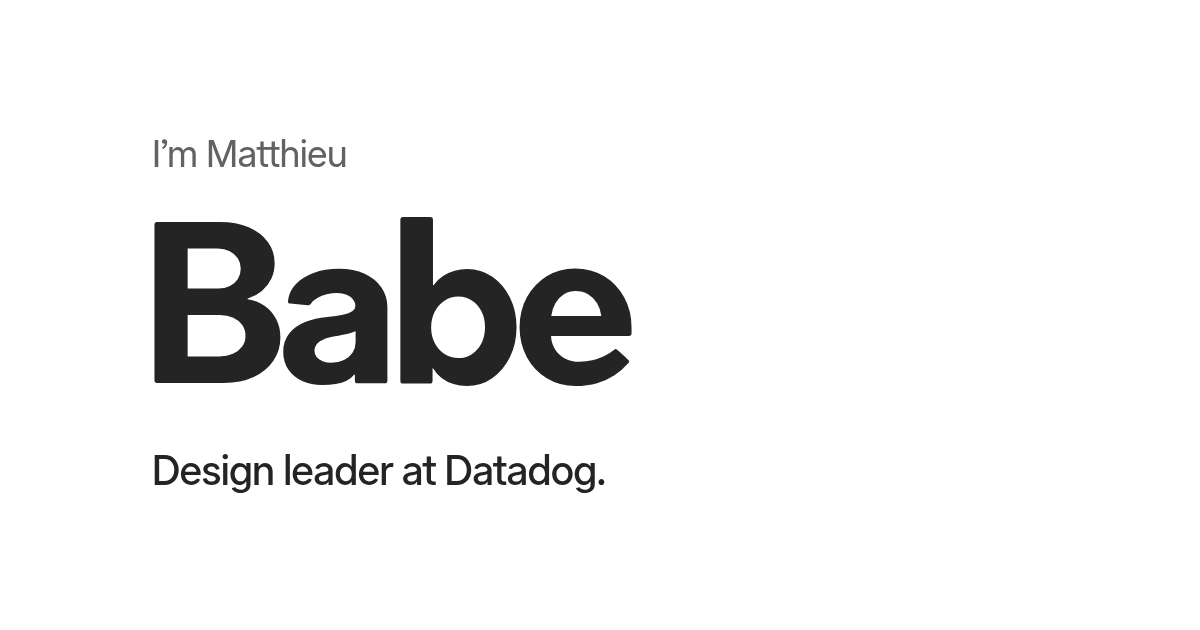
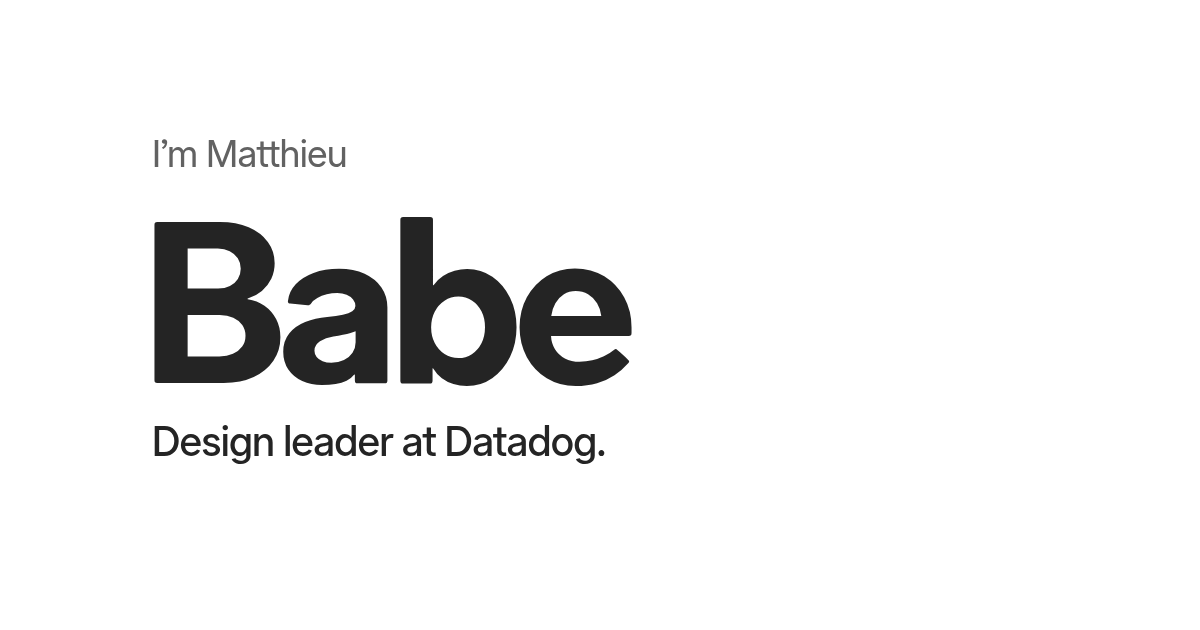
Bring the design-leader line closer to Babe

Changed region(s): [[0.1233, 0.6635, 0.5242, 0.7841]]

diff --git a/src/data/site.ts b/src/data/site.ts
@@ -46,6 +46,11 @@ type ChangelogEntry = {
 
 export const changelog: ChangelogEntry[] = [
   {
+    date: "2026-11-16T22:25:30Z",
+    title: "A tighter intro",
+    changes: ["Less space below Babe."]
+  },
+  {
     date: "2026-11-16T21:38:08Z",
     title: "Hello, Allo",
     changes: [

diff --git a/src/styles/site.css b/src/styles/site.css
@@ -49,7 +49,7 @@ p { margin: 0; }
   display: block;
   width: max-content;
   max-width: 100%;
-  margin: 8px 0 16px;
+  margin: 8px 0 0;
   /* Align the B's ink with the two smaller lines, rather than its sidebearing. */
   margin-inline-start: -.03em;
   font-weight: 720;
